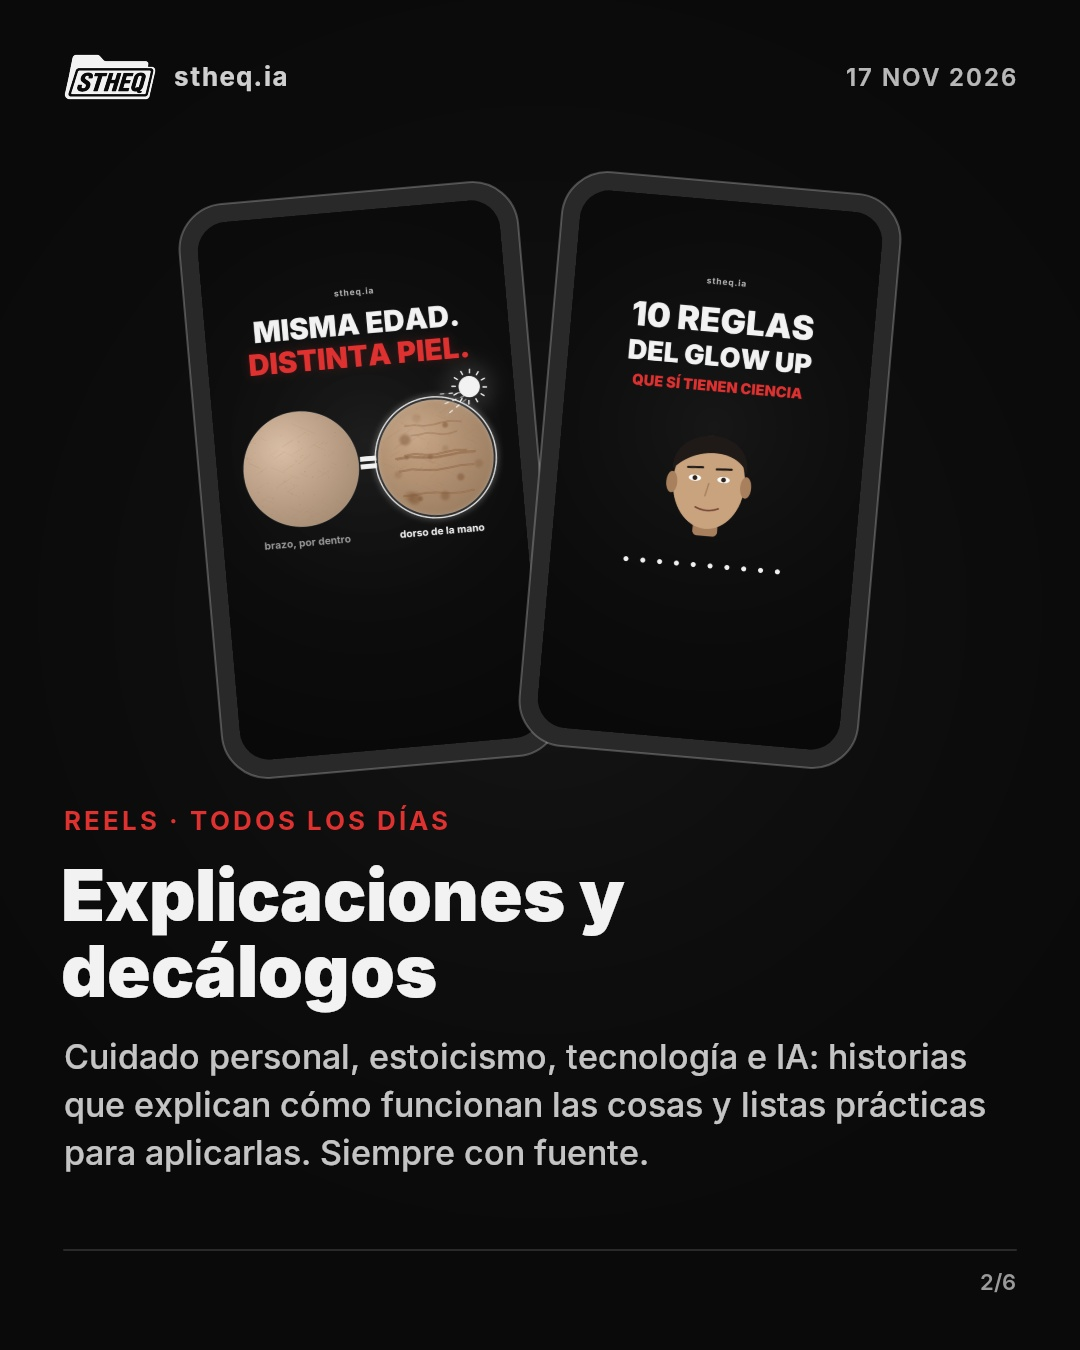
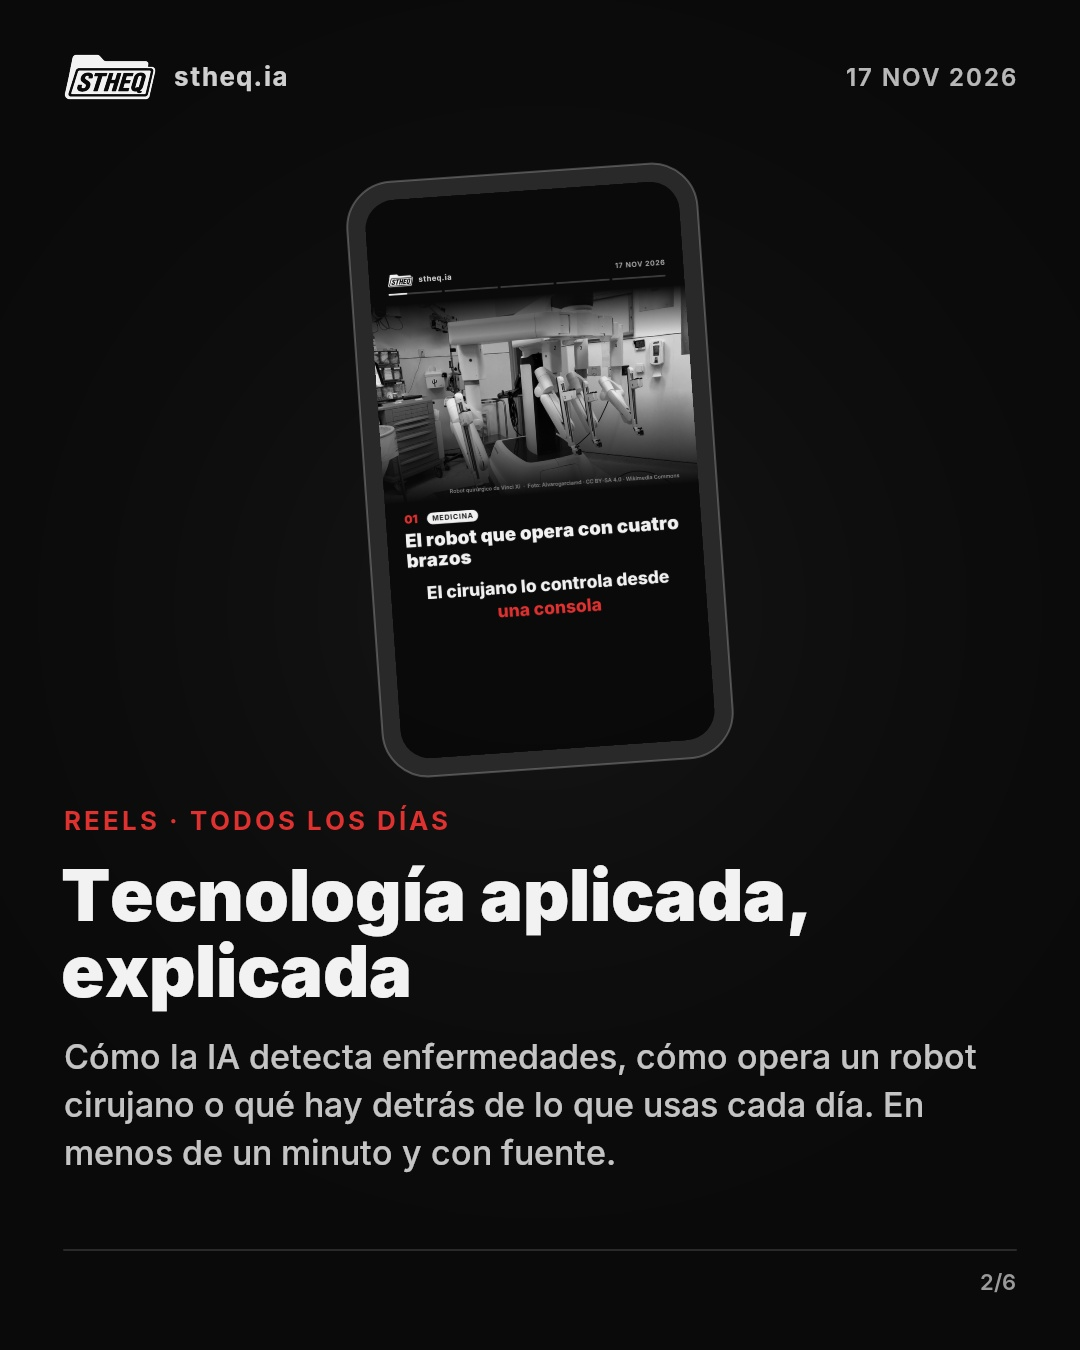
Cuenta de tecnología aplicada: reels con formato de carrusel (tools/reel_tarjetas.py) y presentación nueva
Claude-Session: https://claude.ai/code/session_0175Xv8zxBGXNBbiTN8Qz9TE

Changed region(s): [[0.1528, 0.0933, 0.8556, 0.5911], [0.0611, 0.7778, 0.9167, 0.8711], [0.0611, 0.6222, 0.7639, 0.7467]]

diff --git a/tools/reel_tarjetas.py b/tools/reel_tarjetas.py
@@ -1,0 +1,210 @@
+"""Reels de stheq.ia con el formato de los carruseles (1080×1920, 60 fps).
+
+    python tools/reel_tarjetas.py episodes/<slug>/guion.json --stills   # cuadros de control
+    python tools/reel_tarjetas.py episodes/<slug>/guion.json            # MP4 + SRT + guion + portada
+
+Cada reel es una secuencia de «tarjetas», con el diseño de una lámina de carrusel:
+- arriba: logo, nombre de la cuenta, fecha y barra de avance segmentada (una barra por tarjeta);
+- foto de Wikimedia Commons en blanco y negro, con zoom lento y crédito (autor · licencia);
+- categoría, número de tarjeta y titular grande; opcionalmente, un dato grande en rojo;
+- voz (marca.VOICE) sintetizada por frase y subtítulos karaoke con palabras clave en rojo.
+
+guion.json:
+{
+ "slug": "tec01_robot_cirujano", "fecha": "18 NOV 2026", "fuente": "Medio · fecha",
+ "portada": ["LÍNEA 1", "LÍNEA 2"], "portada_rojo": [1],
+ "tarjetas": [
+   {"cat": "MEDICINA", "titular": "...", "img": "img/a.jpg", "foco": [0.5, 0.4], "zoom": 1.0,
+    "pie": "Robot quirúrgico da Vinci Xi", "dato": "24 %",
+    "frases": [{"t": "Texto con *clave*", "pausa": 0.4, "tono": "Q" | "WOW", "lento": true}]}
+ ]
+}
+"""
+from __future__ import annotations
+import argparse, json, subprocess, sys, time
+from pathlib import Path
+import skia
+from PIL import Image
+
+ROOT = Path(__file__).resolve().parent.parent
+sys.path[:0] = [str(ROOT), str(ROOT / "tools")]
+import carrusel as K
+from reelforge import config as C, marca as M, subtitles as SUB, audio as AU, render as R
+from reelforge.timeline import Timeline, Beat, Ph
+from reelforge.draw import paint, color4, font
+from reelforge.ease import clamp, prog, out_cubic, out_back, in_out_cubic
+
+W, H = C.W, C.H
+X0, X1 = 64, 1016
+FG, GRAY, DIM, RED, BG = M.FG, M.GRAY, M.DIM, M.RED, M.BG
+FOTO_Y0, FOTO_Y1 = 360, 1040
+G = {}                                   # estado del reel (para draw_frame, que debe ser de módulo)
+_cache = {}
+
+
+def foto_card(base, card, zoom_extra=0.0):
+    key = (card["img"], round(zoom_extra, 3))
+    if key not in _cache:
+        if len(_cache) > 64: _cache.clear()
+        _cache[key] = K.foto(base / card["img"], W, FOTO_Y1 - FOTO_Y0, card.get("foco", [0.5, 0.5]),
+                             card.get("zoom", 1.0) + zoom_extra)
+    return _cache[key]
+
+
+def cabecera(p, fecha, k, n, frac):
+    logo = Image.open(K.LOGO); h = 44; w = round(logo.width * h / logo.height)
+    if "logo" not in _cache:
+        _cache["logo"] = K.skimg(logo.resize((w * 2, h * 2), Image.LANCZOS))
+    p.img(_cache["logo"], X0, 256, X0 + w, 256 + h, nearest=False)
+    p.text(M.NAME, X0 + w + 18, 288, 26, FG, 0.85, face=C.FONT_BOLD, align="left", tracking=1.5)
+    p.text(fecha, X1, 288, 24, FG, 0.7, face=C.FONT_SEMI, align="right", tracking=2)
+    # barra de avance segmentada
+    gap = 8; sw = (X1 - X0 - gap * (n - 1)) / n
+    for i in range(n):
+        x = X0 + i * (sw + gap)
+        p.rect(x, 322, x + sw, 328, FG, 0.22, radius=3)
+        f = 1.0 if i < k else (frac if i == k else 0.0)
+        if f > 0: p.rect(x, 322, x + sw * f, 328, FG, 0.95, radius=3)
+
+
+def tarjeta(p, base, card, k, n, lt, dur, a=1.0, dx=0.0):
+    """Dibuja la tarjeta k en su tiempo local lt (s) de duración dur."""
+    if a <= 0: return
+    with p.layer(a):
+        # foto con zoom lento (Ken Burns) en pasos pequeños para cachear
+        z = round(0.06 * clamp(lt / max(dur, 0.1)), 2)
+        p.img(foto_card(base, card, z), 0, FOTO_Y0, W, FOTO_Y1, nearest=False)
+        K.degradado(p, FOTO_Y0, FOTO_Y0 + 160, 1.0, 0.0)
+        K.degradado(p, FOTO_Y1 - 320, FOTO_Y1 + 2, 0.0, 1.0)
+        cr = K.credito(base / card["img"])
+        if card.get("pie"): cr = card["pie"] + "  ·  " + cr
+        if cr: p.text(cr, X1, FOTO_Y1 - 22, 18, FG, 0.5, face=C.FONT_MED, align="right")
+        # dato grande sobre la foto
+        if card.get("dato"):
+            ad = prog(lt, 0.35, 0.8)
+            if ad > 0:
+                s = 0.8 + 0.2 * out_back(clamp((lt - 0.35) / 0.5))
+                with p.transform(0, 0, s, cx=W / 2, cy=760):
+                    p.text(card["dato"], W / 2, 830, 210, RED, ad, face=C.FONT_BLACK, glow=0.6, shadow=True)
+        with p.transform(dx, 0):
+            y = 1112
+            ai = prog(lt, 0.0, 0.4)
+            p.text(f"{k + 1:02d}", X0, y, 40, RED, ai, face=C.FONT_BLACK, align="left")
+            with p.layer(ai):
+                K.pill(p, card["cat"], X0 + 78, y - 2, FG)
+            tl = K.wrap(card["titular"], 64, C.FONT_BLACK, X1 - X0)
+            if len(tl) > 2: tl = K.wrap(card["titular"], 54, C.FONT_BLACK, X1 - X0)
+            ts = 64 if len(tl) <= 2 else 54
+            yy = y + 22
+            for j, ln in enumerate(tl[:3]):
+                aj = prog(lt, 0.1 + 0.08 * j, 0.5 + 0.08 * j)
+                yy += ts * 1.08
+                p.text(ln, X0 - 2 + 30 * (1 - out_cubic(aj)), yy - ts * 0.15, ts, FG, aj, face=C.FONT_BLACK, align="left")
+
+
+def draw_frame(p, t):
+    p.c.clear(color4(BG))
+    cards, base, beats = G["cards"], G["base"], G["beats"]
+    n = len(cards)
+    k = max(i for i, b in enumerate(beats) if t >= b.start - 0.001) if t >= beats[0].start else 0
+    b = beats[k]; lt = t - b.start
+    frac = clamp(lt / max(b.dur, 0.1))
+    # transición: la tarjeta anterior se desvanece hacia la izquierda en 0,35 s
+    tr = 0.35
+    if k > 0 and lt < tr:
+        u = in_out_cubic(lt / tr)
+        pb = beats[k - 1]
+        tarjeta(p, base, cards[k - 1], k - 1, n, t - pb.start, pb.dur, a=1 - u, dx=-60 * u)
+        tarjeta(p, base, cards[k], k, n, lt, b.dur, a=u, dx=60 * (1 - u))
+    else:
+        tarjeta(p, base, cards[k], k, n, lt, b.dur)
+    if k == n - 1 and G.get("fuente"):
+        p.text("Fuente: " + G["fuente"], X0, 1330, 22, GRAY, prog(lt, 0.6, 1.0), face=C.FONT_MED, align="left")
+    M.vignette(p, 0.35)
+    cabecera(p, G["fecha"], k, n, frac)
+    M.sub_band(p)
+    SUB.draw(p, G["chunks"], t, **M.SUB_COLORS)
+
+
+def draw_cover(p, t=0.0):
+    p.c.clear(color4(BG))
+    card = G["cards"][0]
+    p.img(foto_card(G["base"], card), 0, FOTO_Y0, W, FOTO_Y1, nearest=False)
+    K.degradado(p, FOTO_Y0, FOTO_Y0 + 160, 1.0, 0.0)
+    K.degradado(p, FOTO_Y1 - 380, FOTO_Y1 + 2, 0.0, 1.0)
+    cabecera(p, G["fecha"], 0, len(G["cards"]), 0.0)
+    y = 1150
+    for i, ln in enumerate(G.get("portada", [card["titular"]])):
+        p.text(ln, X0 - 4, y, 96, RED if i in G.get("portada_rojo", []) else FG, 1, face=C.FONT_BLACK, align="left")
+        y += 104
+
+
+def beats_de(spec):
+    beats = []
+    for i, card in enumerate(spec["tarjetas"]):
+        phs = []
+        for f in card["frases"]:
+            tono = {"Q": M.Q, "WOW": M.WOW}.get(f.get("tono"))
+            phs.append(Ph(f["t"], pause=f.get("pausa", 0.3), pitch=tono, rate=M.SLOW if f.get("lento") else None))
+        beats.append(Beat(f"t{i:02d}", phs))
+    return beats
+
+
+def sfx(beats, cards):
+    cues = [(0.0, "swell", 0.3)]
+    for b, c in zip(beats[1:], cards[1:]):
+        cues.append((max(0, b.start - 0.15), "whoosh", 0.35))
+    for b, c in zip(beats, cards):
+        if c.get("dato"): cues += [(b.start + 0.35, "pop", 0.45)]
+    return cues
+
+
+def loudnorm(mp4, I=-14.5, TP=-1.0):
+    f = f"loudnorm=I={I}:TP={TP}:LRA=11"
+    r = subprocess.run(["ffmpeg", "-hide_banner", "-i", str(mp4), "-af", f + ":print_format=json", "-f", "null", "-"],
+                       capture_output=True, text=True).stderr
+    m = json.loads(r[r.rindex("{"):r.rindex("}") + 1])
+    f2 = (f + f":measured_I={m['input_i']}:measured_TP={m['input_tp']}:measured_LRA={m['input_lra']}"
+          f":measured_thresh={m['input_thresh']}:offset={m['target_offset']}:linear=true")
+    tmp = mp4.with_suffix(".tmp.mp4")
+    subprocess.run(["ffmpeg", "-y", "-v", "error", "-i", str(mp4), "-c:v", "copy", "-af", f2, "-ar", "48000",
+                    "-c:a", "aac", "-b:a", "192k", "-movflags", "+faststart", str(tmp)], check=True)
+    tmp.replace(mp4)
+
+
+def main():
+    ap = argparse.ArgumentParser()
+    ap.add_argument("guion"); ap.add_argument("--stills", action="store_true"); ap.add_argument("--workers", type=int)
+    a = ap.parse_args()
+    js = Path(a.guion).resolve(); base = js.parent
+    spec = json.loads(js.read_text())
+    build, out = base / "build", base / "output"; out.mkdir(parents=True, exist_ok=True)
+    beats = beats_de(spec)
+    tl = Timeline(beats, build / "tts", voice=M.VOICE, rate=M.RATE, pitch=M.PITCH)
+    G.update(cards=spec["tarjetas"], base=base, beats=beats, fecha=spec["fecha"], fuente=spec.get("fuente"),
+             portada=spec.get("portada"), portada_rojo=spec.get("portada_rojo", []),
+             chunks=tl.chunks(SUB.measure, max_words=4))
+    print(f"duración: {tl.duration:.2f} s")
+    if a.stills:
+        sd = build / "stills"; sd.mkdir(parents=True, exist_ok=True)
+        for f in sd.glob("*.png"): f.unlink()
+        for b in beats:
+            for fr in (0.15, 0.6):
+                R.render_still(draw_frame, b.start + fr * b.dur, sd / f"{b.id}_{int(fr * 100)}.png")
+        R.render_still(draw_cover, 0, sd / "portada.png")
+        print("stills en", sd); return
+    slug = spec["slug"]
+    wav = build / "mix.wav"
+    AU.mix(tl.voice_track(), tl.duration, sfx(beats, spec["tarjetas"]), out_wav=wav,
+           music_kw={"arp_from": beats[1].start if len(beats) > 1 else 0.0})
+    (out / f"{slug}.srt").write_text(tl.srt(G["chunks"]), encoding="utf-8")
+    (out / "guion_narrado.txt").write_text(tl.script_text(), encoding="utf-8")
+    R.render_still(draw_cover, 0.0, out / "portada.png")
+    t0 = time.time(); mp4 = out / f"{slug}.mp4"
+    R.render_video(draw_frame, tl.duration, mp4, wav, build / "parts", workers=a.workers)
+    loudnorm(mp4)
+    print(f"render {time.time() - t0:.1f} s ->", mp4)
+
+
+if __name__ == "__main__":
+    main()

diff --git a/carruseles/2026-11-17_presentacion/presentacion.py b/carruseles/2026-11-17_presentacion/presentacion.py
@@ -67,10 +67,10 @@ def s1():
     logo = Image.open(K.LOGO); lw = 640; lh = round(logo.height * lw / logo.width)
     p.img(K.skimg(logo.resize((lw * 2, lh * 2), Image.LANCZOS)), (W - lw) / 2, 300, (W + lw) / 2, 300 + lh, nearest=False)
     y = 300 + lh + 150
-    for ln, col in [("Entiende la tecnología.", FG), ("Cuida tu mente y tu cuerpo.", RED)]:
+    for ln, col in [("La tecnología que ya", FG), ("está cambiando todo.", RED)]:
         p.text(ln, W / 2, y, 68, col, 1, face=C.FONT_BLACK); y += 82
     y += 30
-    for ln in K.wrap("Esto es lo que vas a encontrar aquí.", 34, C.FONT_MED, 820):
+    for ln in K.wrap("IA, medicina, robótica, energía y más, explicadas simple. Esto es lo que vas a encontrar aquí.", 34, C.FONT_MED, 820):
         p.text(ln, W / 2, y, 34, FG, 0.75, face=C.FONT_MED); y += 48
     p.text("Desliza", X1 - 64, 1290, 26, FG, 0.9, face=C.FONT_BOLD, align="right")
     p.arrow(X1 - 50, 1281, X1, 1281, RED, 1, w=4, head=18)
@@ -80,10 +80,9 @@ def s1():
 
 def s2():
     arr, p = base(); K.cabecera(p, FECHA)
-    telefono(p, ROOT / "episodes/lx01_protector_solar/output/portada.png", W / 2 - 170, 480, 540, rot=-5)
-    telefono(p, ROOT / "episodes/dec01_glow_up/output/portada.png", W / 2 + 170, 470, 540, rot=5)
-    bloque(p, 830, "REELS · TODOS LOS DÍAS", "Explicaciones y decálogos",
-           "Cuidado personal, estoicismo, tecnología e IA: historias que explican cómo funcionan las cosas y listas prácticas para aplicarlas. Siempre con fuente.")
+    telefono(p, ROOT / "assets/demo/reel_mock.png", W / 2, 470, 560, rot=-4)
+    bloque(p, 830, "REELS · TODOS LOS DÍAS", "Tecnología aplicada, explicada",
+           "Cómo la IA detecta enfermedades, cómo opera un robot cirujano o qué hay detrás de lo que usas cada día. En menos de un minuto y con fuente.")
     K.pie(p, "", 2, N)
     return arr
 
@@ -91,7 +90,7 @@ def s2():
 def s3():
     arr, p = base(); K.cabecera(p, FECHA)
     telefono(p, ROOT / "carruseles/2026-11-18_noticias/slides/01.jpg", W / 2, 470, 560, rot=4)
-    bloque(p, 830, "CARRUSELES · LUNES, MIÉRCOLES Y VIERNES", "Noticias de IA",
+    bloque(p, 830, "CARRUSELES · LUNES, MIÉRCOLES Y VIERNES", "Noticias de IA y tecnología",
            "Lo que pasó en las últimas 24 horas, verificado en la fuente y explicado en pocas líneas: qué pasó y por qué importa.")
     K.pie(p, "", 3, N)
     return arr
@@ -122,7 +121,7 @@ def s4():
     p.rect(X0 + 520, ly - 22, X0 + 556, ly + 12, RED, 1, radius=6)
     p.text("noticias de IA", X0 + 572, ly + 4, 28, FG, 0.85, face=C.FONT_SEMI, align="left")
     bloque(p, 830, "TU SEMANA EN STHEQ", "10 publicaciones por semana",
-           "Un reel cada día (explicación o decálogo) y tres carruseles de noticias. Siempre a la hora en que más gente está conectada.")
+           "Un reel de tecnología cada día y tres carruseles de noticias. Siempre a la hora en que más gente está conectada.")
     K.pie(p, "", 4, N)
     return arr
 
@@ -132,10 +131,10 @@ def s5():
     y = 290
     p.text("NUESTRAS REGLAS", X0, y, 26, RED, 1, face=C.FONT_BOLD, align="left", tracking=3)
     y += 30
-    reglas = [("Todo con fuente.", "Estudios, textos originales, organismos oficiales y medios verificados."),
+    reglas = [("Todo con fuente.", "Estudios, organismos oficiales y medios verificados. Siempre citados."),
               ("Nada de rumores.", "Si una noticia no se confirma en la fuente original, no se publica."),
-              ("Sin promesas milagrosas.", "Hábitos que funcionan, no atajos ni productos mágicos."),
-              ("Directo al punto.", "Lo que pasó, por qué importa y qué puedes hacer tú.")]
+              ("Sin humo.", "Tecnología real y aplicada, no promesas ni ciencia ficción."),
+              ("Directo al punto.", "Qué es, cómo funciona y por qué te importa.")]
     for i, (t, d) in enumerate(reglas):
         y += 112
         p.text(f"{i + 1:02d}", X0, y, 52, RED, 1, face=C.FONT_BLACK, align="left")
@@ -153,10 +152,10 @@ def s6():
     logo = Image.open(K.LOGO); lw = 520; lh = round(logo.height * lw / logo.width)
     p.img(K.skimg(logo.resize((lw * 2, lh * 2), Image.LANCZOS)), (W - lw) / 2, 240, (W + lw) / 2, 240 + lh, nearest=False)
     y = 240 + lh + 160
-    for ln in K.wrap("¿Sobre qué quieres el próximo reel?", 64, C.FONT_BLACK, X1 - X0 - 40):
+    for ln in K.wrap("¿Qué tecnología quieres entender primero?", 64, C.FONT_BLACK, X1 - X0 - 40):
         p.text(ln, W / 2, y, 64, FG, 1, face=C.FONT_BLACK); y += 76
     y += 20
-    ops = ["estoicismo", "piel", "IA", "dormir"]
+    ops = ["IA", "medicina", "robots", "energía"]
     f_w = [K.font(32, C.FONT_BOLD).measureText(o) + 48 for o in ops]
     tot = sum(f_w) + 16 * (len(ops) - 1); x = (W - tot) / 2
     for o, w in zip(ops, f_w):
